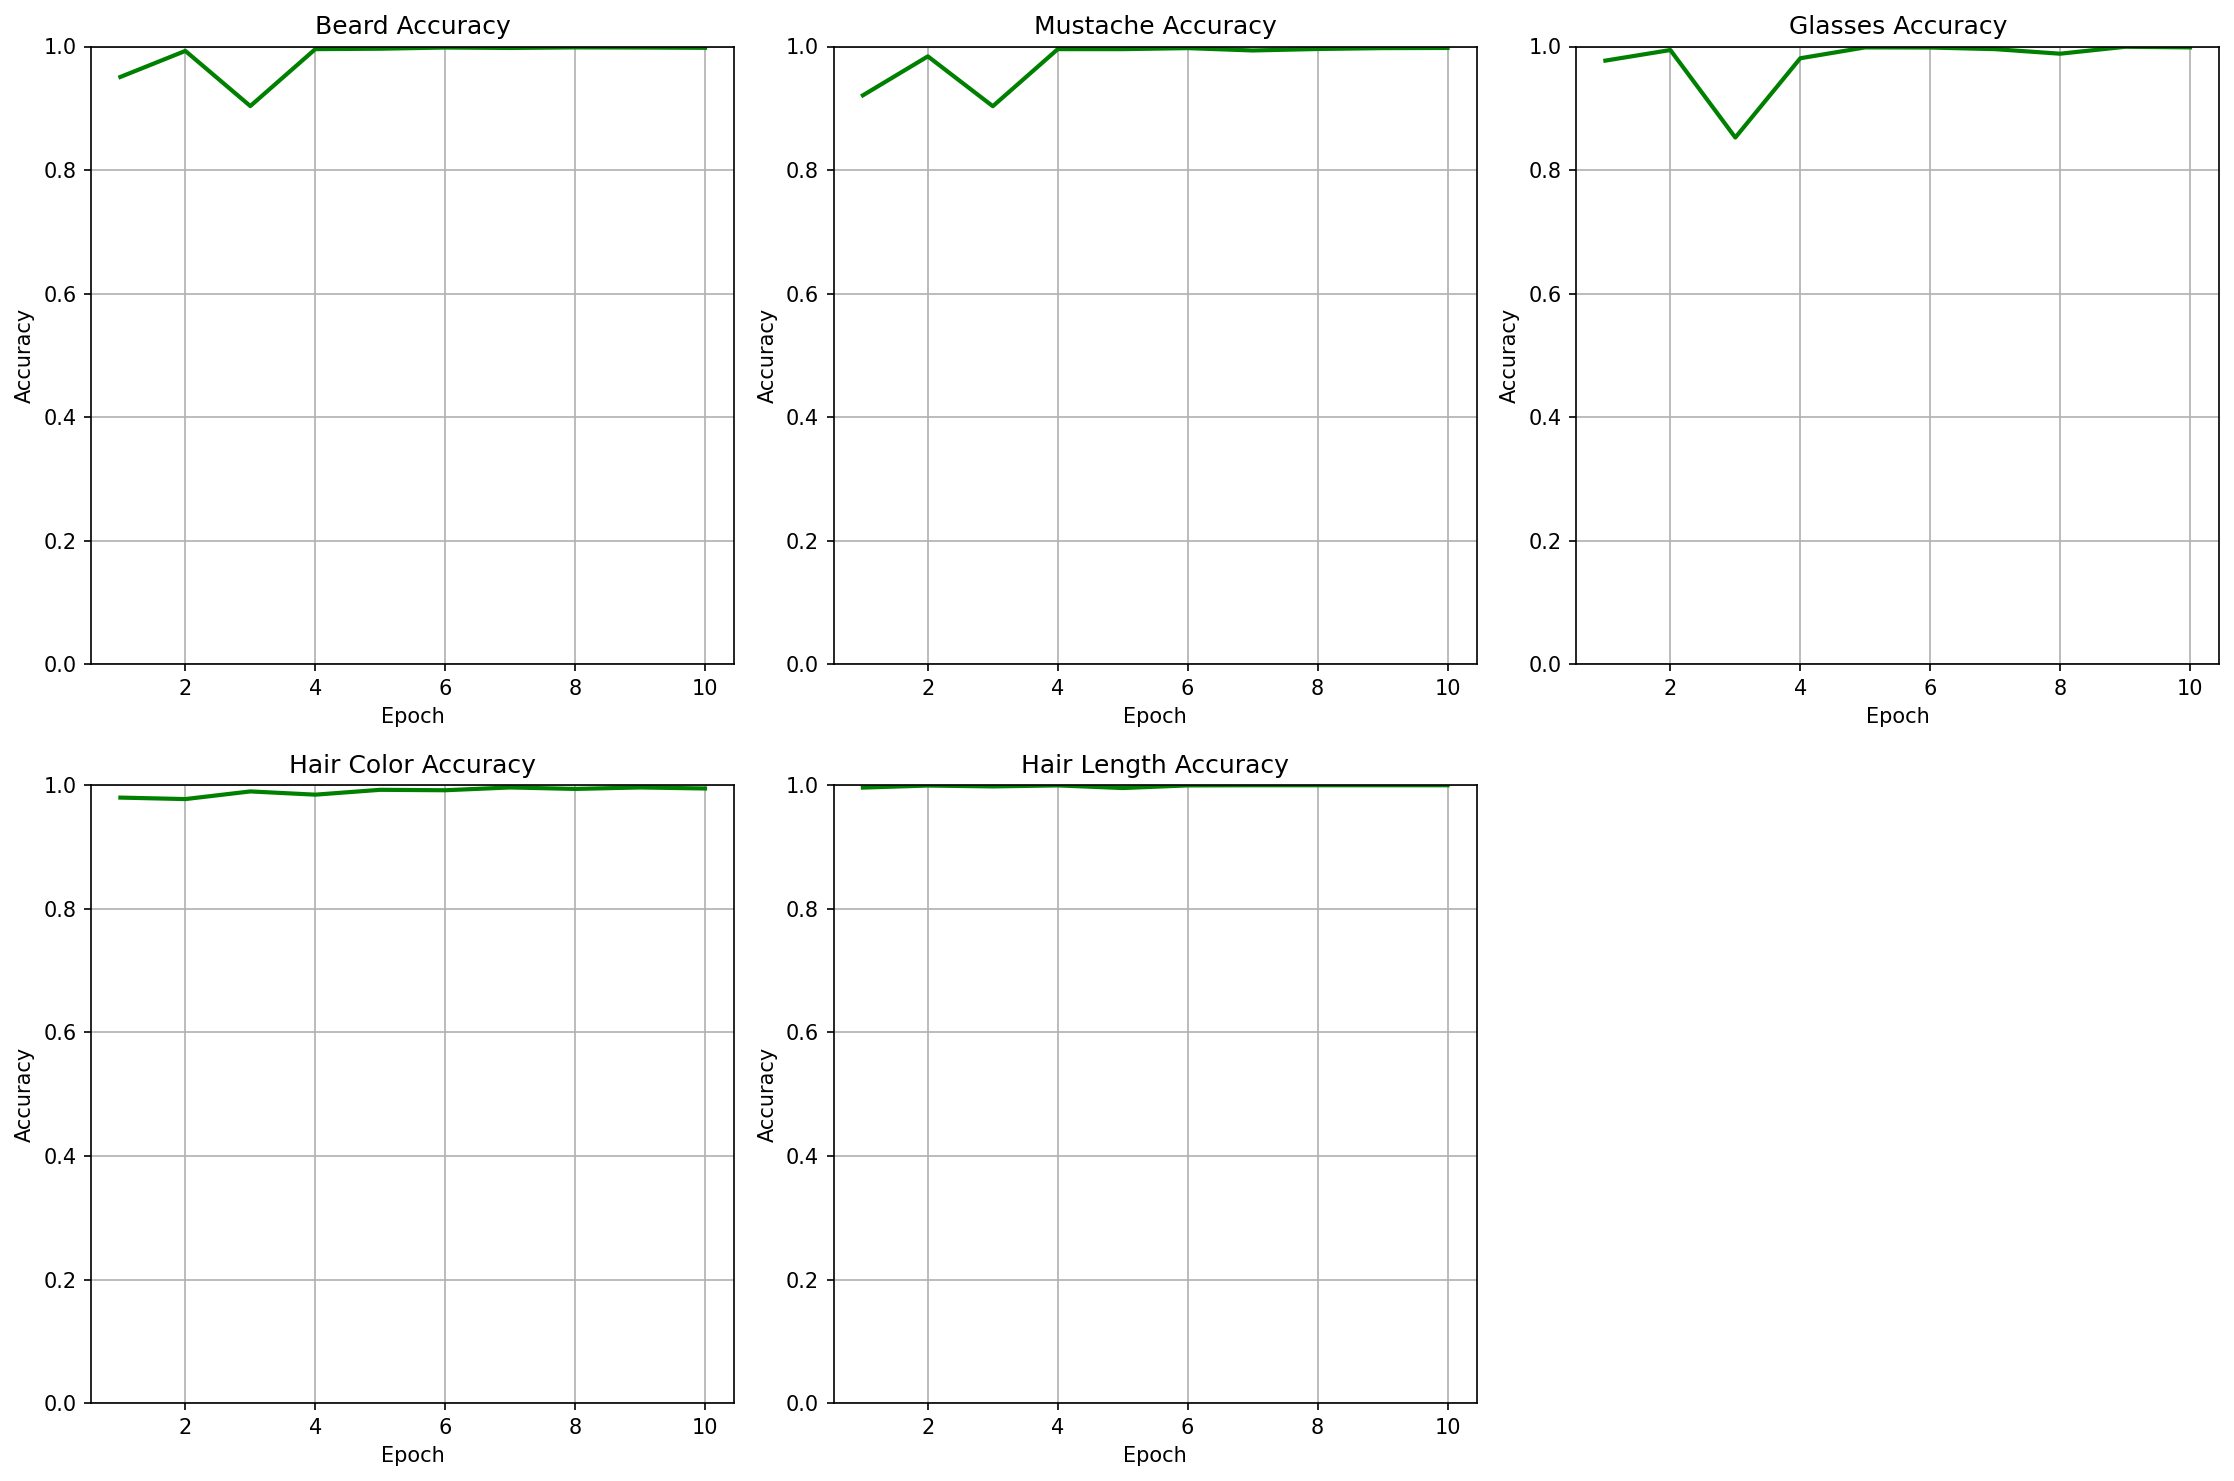
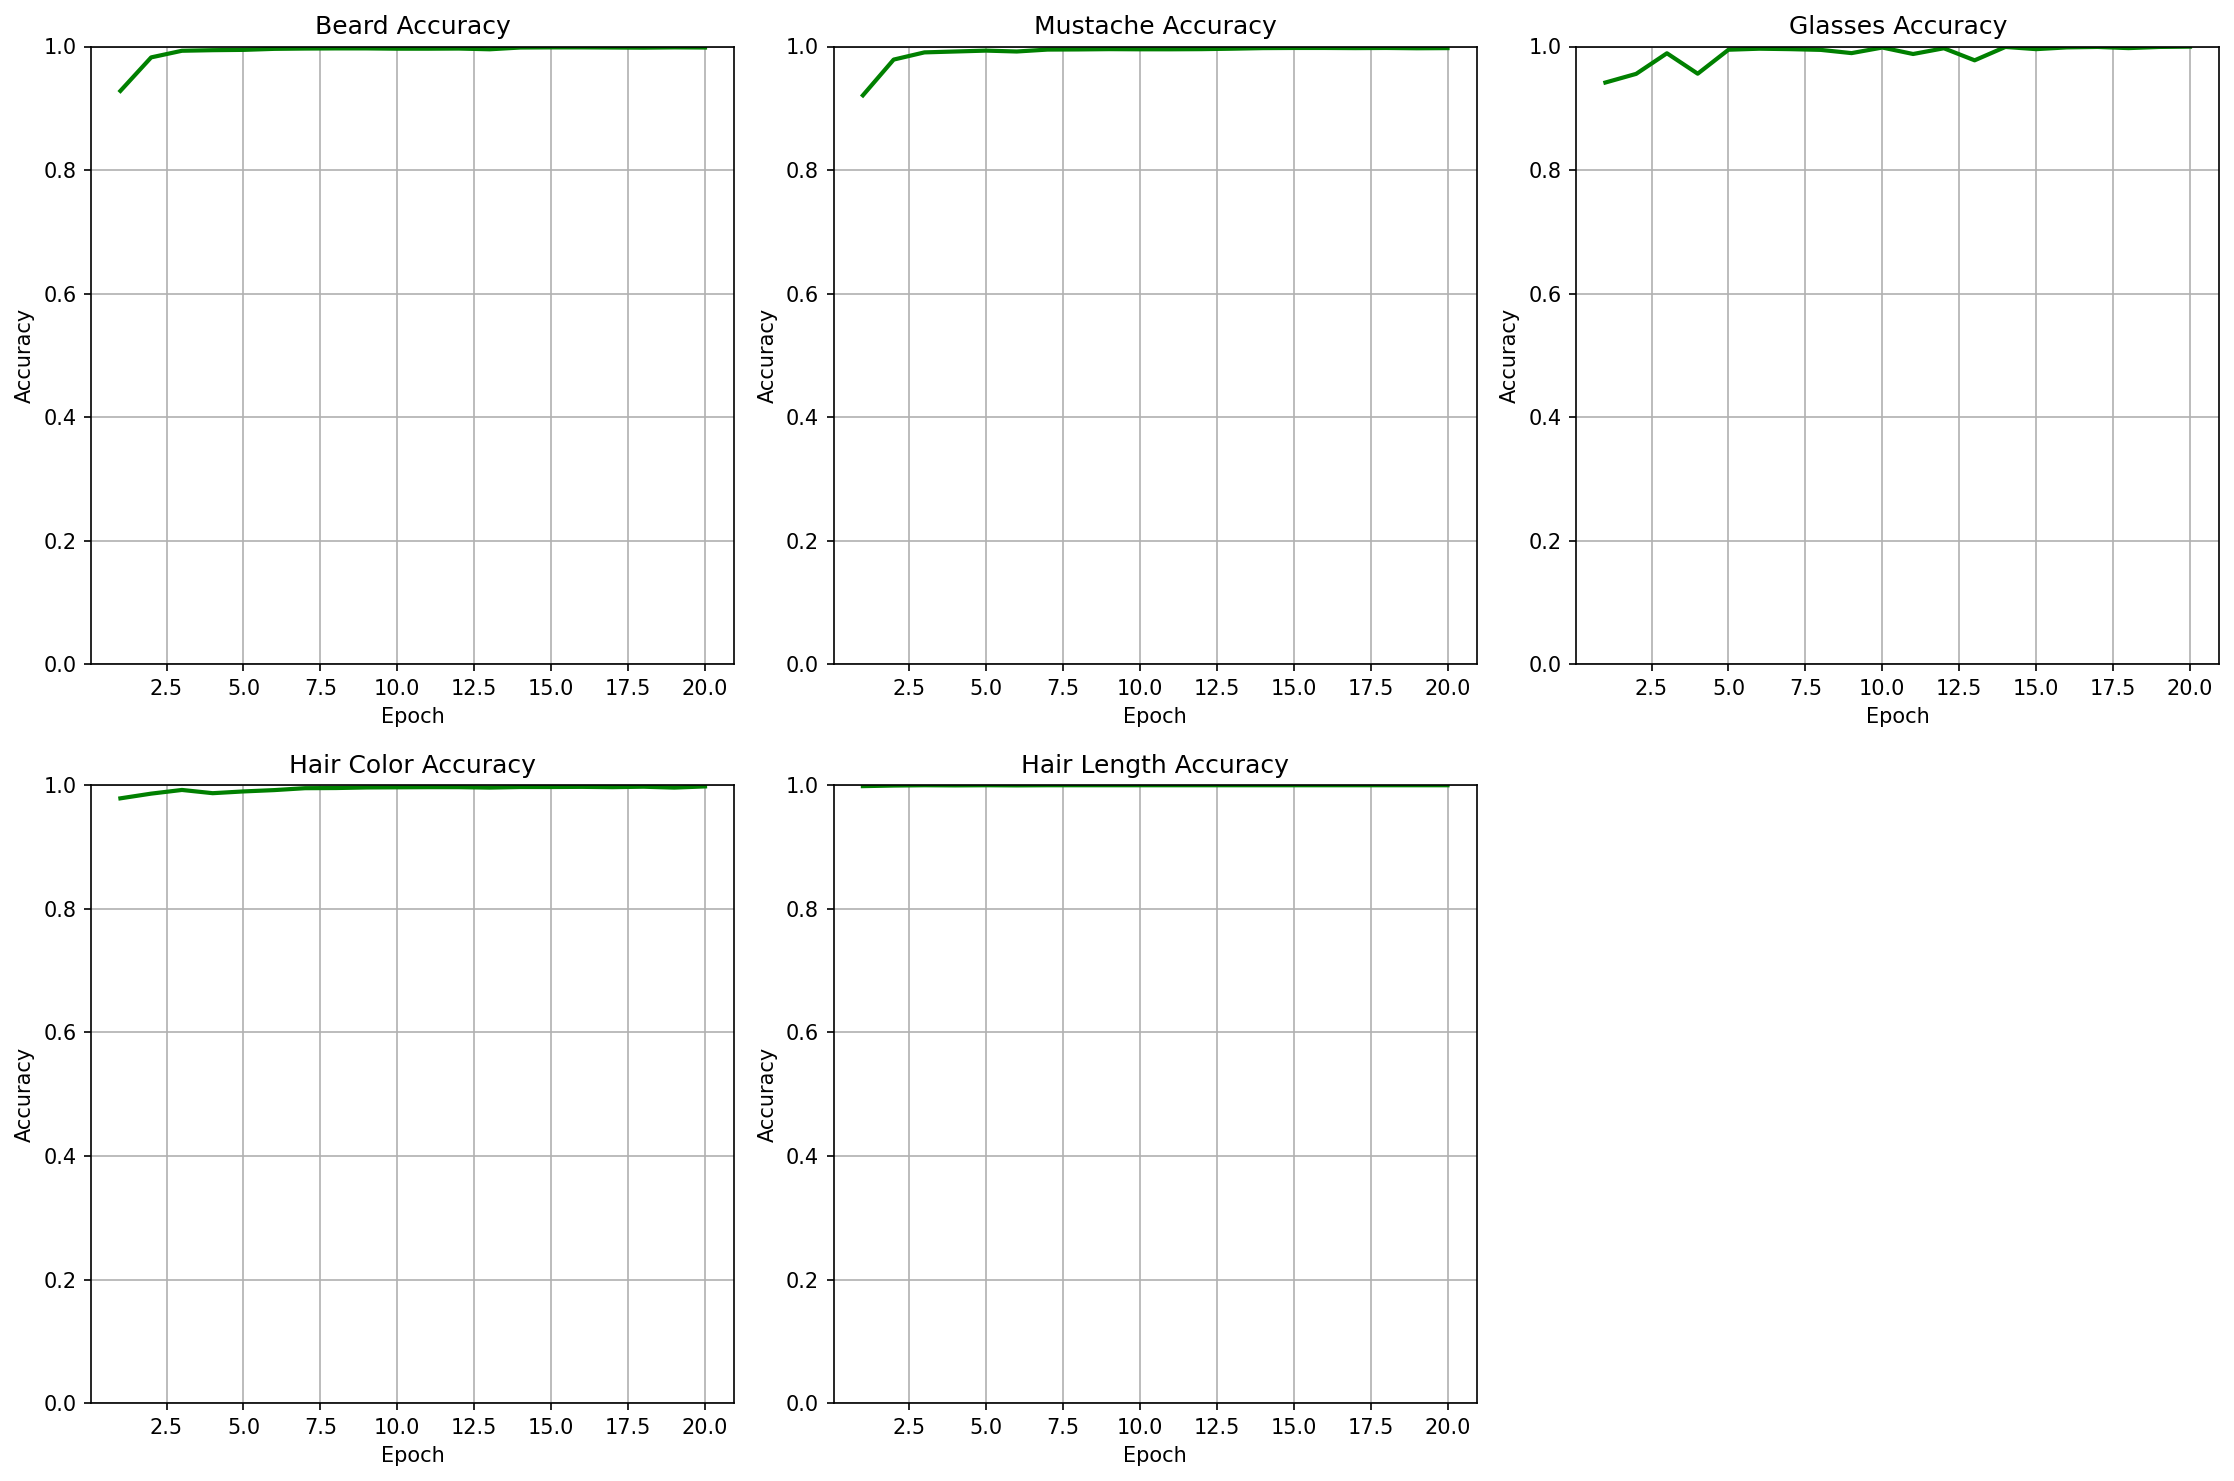
feat: Update model training metrics and evaluation outputs; adjust loss weights and training parameters

diff --git a/src/training/loops.py b/src/training/loops.py
@@ -13,6 +13,8 @@ ce = nn.CrossEntropyLoss()
 
 # Suppress tqdm warnings if any
 tqdm.pandas()
+
+
 def train_one_epoch(model, loader, optimizer, device, epoch):
     """Version stabilisée de l'entraînement"""
     model.train()
@@ -40,8 +42,8 @@ def train_one_epoch(model, loader, optimizer, device, epoch):
         total_loss = (
             loss_beard * 1.0 +
             loss_mustache * 1.0 +
-            loss_glasses * 2.0 +
-            loss_color * 0.8 +
+            loss_glasses * 1.0 +
+            loss_color * 1.0 +
             loss_length * 1.0
         )
 
@@ -120,8 +122,8 @@ def validate(model, loader, device):
             total_loss = (
                 loss_beard * 1.0 +
                 loss_mustache * 1.0 +
-                loss_glasses * 2.0 +
-                loss_color * 0.8 +
+                loss_glasses * 1.0 +
+                loss_color * 1.0 +
                 loss_length * 1.0
             )
 

diff --git a/src/training/train.py b/src/training/train.py
@@ -148,11 +148,7 @@ def main():
     print(f" Train: {len(X_train)}, Val: {len(X_val)}")
     
     # Transforms
-    train_transforms = transforms.Compose([
-    transforms.RandomHorizontalFlip(p=0.5),
-    transforms.RandomRotation(10),
-])
-
+    train_transforms = None
 
     
     
@@ -194,8 +190,8 @@ def main():
         optimizer,
         mode='min',
         factor=0.5,  # Divise par 2 le LR
-        patience=3,  # Attend 3 epochs sans amélioration
-        min_lr=1e-6,
+        patience=2,  # Attend 3 epochs sans amélioration
+        min_lr=1e-7,
     )
     
     mlflow.set_tracking_uri("sqlite:///mlflow.db")
